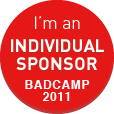
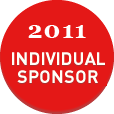
clean up badges view and css and images

Changed region(s): [[0.0789, 0.1316, 0.9211, 0.8947], [0.9211, 0.7105, 0.9474, 0.7632]]

diff --git a/sites/all/themes/baddercamp/css/html-reset.css b/sites/all/themes/baddercamp/css/html-reset.css
@@ -662,13 +662,18 @@ h2.pane-title {
   float: left;
   margin-right: 10px;
 }
-.views-field-model {
+
+.view-badges .views-field-nothing {
   padding: 25px;
 }
-span.individual20 {
+.view-badges .views-field-nothing span.field-content {
   display: block;
+  background: transparent url('../images/individualsponsor2012.png') top left no-repeat;
   width: 114px;
   height: 114px;
-  background: transparent url('../images/individualsponsor2012.png') top left no-repeat;
   text-indent: -9999px;
+}
+.view-display-id-panel_pane_1 .views-field-nothing span.field-content {
+  /* make it use the old badge for 2011 */
+  background: transparent url('../images/individualsponsor.png') top left no-repeat;
 }
